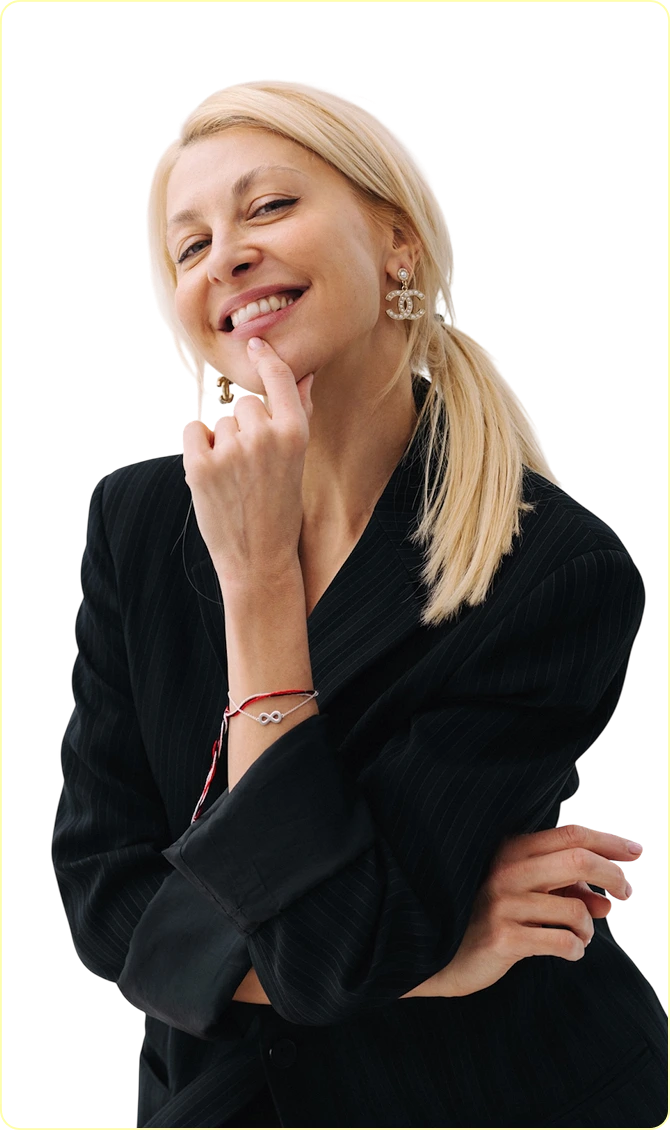
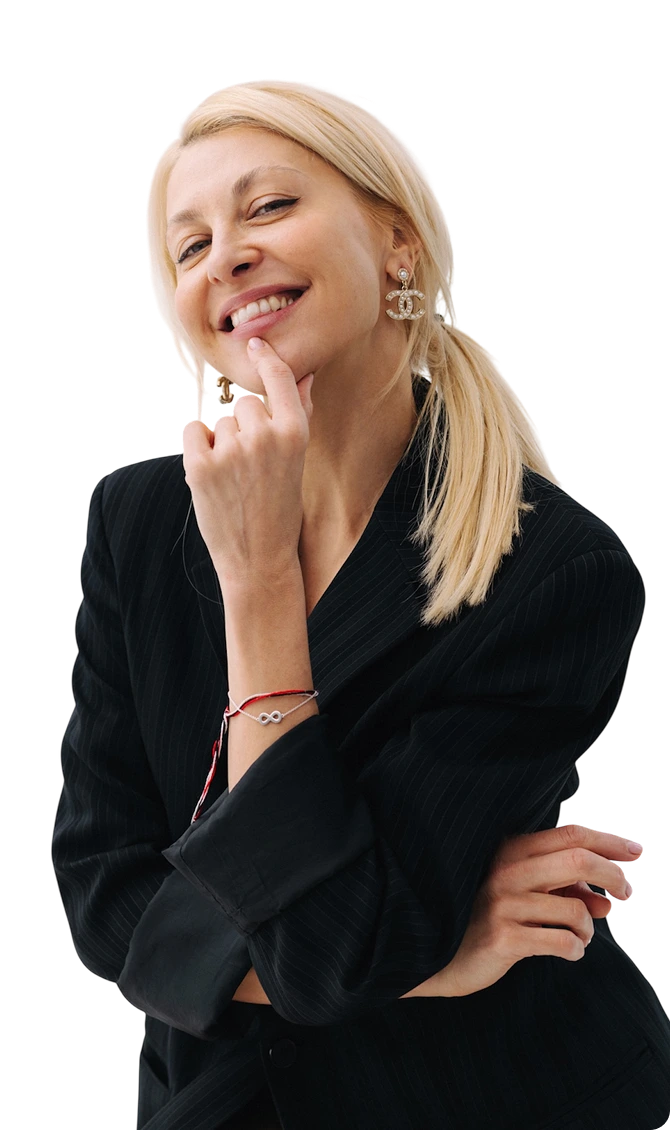
update speakers photo / add partnersSection

Changed region(s): [[0.0, 0.0, 1.0, 1.0], [0.0, 0.0, 0.0299, 0.031]]

diff --git a/src/components/SpeakersSection/SpeakersSection.module.css b/src/components/SpeakersSection/SpeakersSection.module.css
@@ -36,9 +36,9 @@
   width: 335px;
   height: 565px;
   background-image: url(./Tolstikova.webp);
-  background-position: center;
   background-size: cover;
   border: 1px solid #ffffac;
+  background-position: top;
   border-radius: 10px;
   margin-bottom: 30px;
 }
@@ -46,8 +46,9 @@
   width: 335px;
   height: 565px;
   background-image: url(./Kozachkova.webp);
-  background-position: bottom;
   background-size: cover;
+  background-repeat: no-repeat;
+  background-position: top;
   border: 1px solid #ffffac;
   border-radius: 10px;
 }
@@ -55,7 +56,7 @@
   width: 335px;
   height: 565px;
   background-image: url(./Matushevska.webp);
-  background-position: center;
+  background-position: top;
   background-size: cover;
   border: 1px solid #ffffac;
   border-radius: 10px;
@@ -64,7 +65,7 @@
   width: 335px;
   height: 565px;
   background-image: url(./Kozlova.webp);
-  background-position: center;
+  background-position: top;
   background-size: cover;
   border: 1px solid #ffffac;
   border-radius: 10px;
@@ -73,7 +74,7 @@
   width: 335px;
   height: 565px;
   background-image: url(./Besborodih.webp);
-  background-position: center;
+  background-position: top;
   background-size: cover;
   border: 1px solid #ffffac;
   border-radius: 10px;
@@ -82,8 +83,8 @@
     width: 335px;
     height: 565px;
     background-image: url(./Stripko.webp);
-    background-position: center;
-    background-size: cover;
+  background-position: top;
+  background-size: cover;
     border: 1px solid #ffffac;
     border-radius: 10px;
   }
@@ -91,8 +92,8 @@
     width: 335px;
     height: 565px;
     background-image: url(./Shihrova.webp);
-    background-position: center;
-    background-size: cover;
+  background-position: top;
+  background-size: cover;
     border: 1px solid #ffffac;
     border-radius: 10px;
   }
@@ -100,8 +101,8 @@
     width: 335px;
     height: 565px;
     background-image: url(./Tokar.webp);
-    background-position: center;
-    background-size: cover;
+  background-position: top;
+  background-size: cover;
     border: 1px solid #ffffac;
     border-radius: 10px;
   }
@@ -109,8 +110,8 @@
     width: 335px;
     height: 565px;
     background-image: url(./Shotropa.webp);
-    background-position: center;
-    background-size: cover;
+  background-position: top;
+  background-size: cover;
     border: 1px solid #ffffac;
     border-radius: 10px;
   }

diff --git a/src/App.jsx b/src/App.jsx
@@ -3,6 +3,7 @@ import FAQ from "./components/FAQ/FAQ";
 import Footer from "./components/Footer/Footer";
 import Header from "./components/Header/Header";
 import Hero from "./components/Hero/Hero";
+import PartnersSection from "./components/Partners/PartnersSection";
 import Program from "./components/Program/Program";
 import ProgramOnConference from "./components/ProgramOnConference/ProgramOnConference";
 import SpeakersSection from "./components/SpeakersSection/SpeakersSection";
@@ -25,6 +26,7 @@ export default function App() {
       <SpeakersSection />
       <ProgramOnConference />
       <Tickets />
+      <PartnersSection />
       <Donation />
       <FAQ />
       <TelegramBlock />

diff --git a/src/components/Partners/PartnersSection.jsx b/src/components/Partners/PartnersSection.jsx
@@ -1,0 +1,19 @@
+import styles from "./PartnersSection.module.css";
+import spriteLogo from "./spriteLogo.svg";
+
+export default function PartnersSection() {
+  return (
+    <section className={styles.PartnersSection}>
+      <div className="container">
+        <p className={styles.textBtw}>(наші партнери)</p>
+        <ul className={styles.wrapperPartners}>
+          <li>
+            <svg className={styles.pdpLogo} width={223} height={40}>
+              <use xlinkHref={`${spriteLogo}#logo-pdp`}></use>
+            </svg>
+          </li>
+        </ul>
+      </div>
+    </section>
+  );
+}

diff --git a/src/components/Partners/PartnersSection.module.css b/src/components/Partners/PartnersSection.module.css
@@ -1,0 +1,17 @@
+.textBtw{
+    font-size: 12px;
+    font-weight: 600;
+    text-transform: uppercase;
+    text-align: right;
+    margin: 35px 54px 30px 0;
+}
+.wrapperPartners{
+    display: flex;
+    justify-content: center;
+    align-items: center;
+}
+.wrapperPartners li{
+    border: 1px solid #FFFFAC;
+    border-radius: 10px;
+    padding: 52px 24px;
+}

diff --git a/src/components/SpeakersSection/SpeakersSection.jsx b/src/components/SpeakersSection/SpeakersSection.jsx
@@ -30,7 +30,7 @@ export default function SpeakersSection() {
     },
     {
       id: 2,
-      speakerName: "козачкова юлія",
+      speakerName: "козачкова\nюлія",
       speakerTema: "",
       swiperSlideBackground: "swiperSlideBackground2",
       speakerInstagram:
